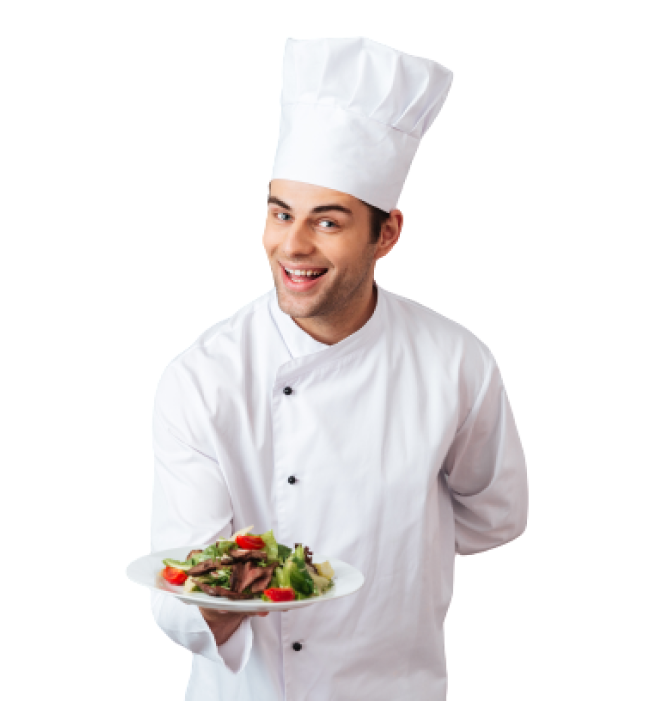
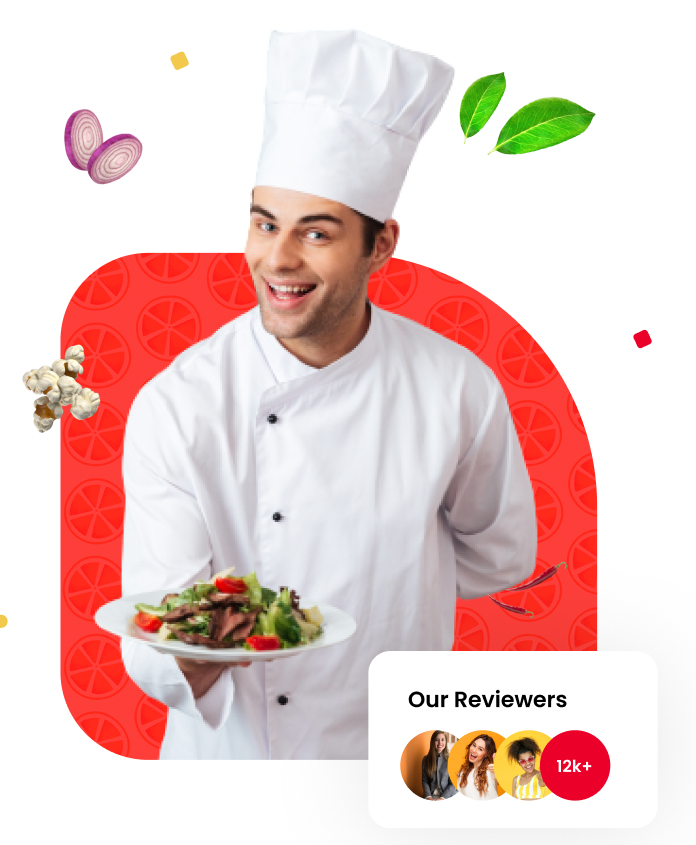
added download component

diff --git a/src/components/Review.js b/src/components/Review.js
@@ -1,40 +1,68 @@
 import React from "react";
-import rectangle from "../images/Rectangle 4.png";
 import chef from "../images/chef.png";
 import Slider from "react-slick";
 
 const Review = () => {
+  function SampleNextArrow(props) {
+    const { className, style, onClick } = props;
+    return (
+      <div
+        className={className}
+        style={{
+          ...style,
+          display: "block",
+          background: "#EB0029",
+          borderRadius: "50%",
+        }}
+        onClick={onClick}
+      />
+    );
+  }
+
+  function SamplePrevArrow(props) {
+    const { className, style, onClick } = props;
+    return (
+      <div
+        className={className}
+        style={{
+          ...style,
+          display: "block",
+          background: "#EB0029",
+          borderRadius: "50%",
+        }}
+        onClick={onClick}
+      />
+    );
+  }
   const settings = {
     dots: true,
     infinite: true,
     speed: 500,
     slideToshow: 1,
     slideToScroll: 1,
+    nextArrow: <SampleNextArrow />,
+    prevArrow: <SamplePrevArrow />,
   };
 
   return (
-    <section className="my-5 px-12 flex flex-row justify-between relative">
+    <section className="container my-8 py-8 px-12 flex flex-row justify-between items-center">
       <div className=" mx-5 px-5">
         <img
-          className=" absolute w-[330px] top-0"
-          src={rectangle}
-          alt="rectangle background"
-        />
-        <img
-          className=" absolute w-[420px] h-auto left-11 bottom-[-193px]"
+          className=" w-[550px] h-auto"
           src={chef}
           alt="chef holding the dish"
         />
       </div>
-      <div className=" container text-center w-[50%]">
+      <div className="text-center w-[50%] ">
         <div>
           <h2 className=" text-[#EB0029] font-semibold">What They Say</h2>
-          <h1 className=" font-extrabold text-2xl my-2 py-2">
-            What Our Customers Say About Us
+          <h1 className=" font-bold text-4xl my-2 py-2">
+            What Our Customers <br />
+            Say About Us
           </h1>
           <Slider {...settings}>
             <div>
-              <p>
+              <p className=" text-xl">
                 "There are painters who transform the sun to a yellow spot,
                 <br /> but there are others who with the help of their art and
                 their
@@ -43,7 +71,7 @@ const Review = () => {
               </p>
             </div>
             <div>
-              <p>
+              <p className=" text-xl">
                 There are painters who transform the sun to a yellow spot,
                 <br /> but there are others who with the help of their art and
                 their
@@ -52,7 +80,7 @@ const Review = () => {
               </p>
             </div>
             <div>
-              <p>
+              <p className=" text-xl">
                 There are painters who transform the sun to a yellow spot,
                 <br /> but there are others who with the help of their art and
                 their

diff --git a/src/components/Download.js b/src/components/Download.js
@@ -1,0 +1,32 @@
+import React from "react";
+import app from "../images/app.png";
+
+const Download = () => {
+  return (
+    <section className=" bg-[#ffddcc54] container my-8 py-8 px-12 rounded-2xl mx-14 ">
+      <div className=" flex flex-row justify-around relative top-9 ">
+        <div className=" mx-4 px-4 py-7">
+          <h2 className=" text-[#EB0029] -tracking-tighter font-medium text-lg my-3 py-3 ">
+            Download App
+          </h2>
+          <h1 className=" text-4xl font-bold my-3 py-3">
+            Get Started With <br /> Fudo Today!
+          </h1>
+          <p className=" text-gray-800 my-2 py-2 text-lg">
+            Discover food wherever and whenever and get
+            <br />
+            your food delivered quickly.
+          </p>
+          <button className=" bg-[#EB0029] text-white px-12 py-4 my-3 rounded-full">
+            Get App
+          </button>
+        </div>
+        <div>
+          <img src={app} alt="app" />
+        </div>
+      </div>
+    </section>
+  );
+};
+
+export default Download;

diff --git a/src/pages/Home.js b/src/pages/Home.js
@@ -2,6 +2,7 @@ import Hero from "../components/Hero";
 import About from "../components/About";
 import Menu from "../components/Menu";
 import Review from "../components/Review";
+import Download from "../components/Download";
 
 const Home = () => {
   return (
@@ -10,6 +11,7 @@ const Home = () => {
       <About />
       <Menu />
       <Review />
+      <Download />
     </div>
   );
 };

diff --git a/src/components/Menu.js b/src/components/Menu.js
@@ -4,7 +4,7 @@ import { HiOutlineChevronLeft, HiOutlineChevronRight } from "react-icons/hi";
 
 const Menu = () => {
   return (
-    <section className="my-5 px-12">
+    <section className="my-5 py-6 px-12">
       <h2 className=" text-[#EB0029] font-bold text-3xl my-3 pt-4">Our Menu</h2>
       <div className=" flex flex-row justify-between items-end">
         <div>
